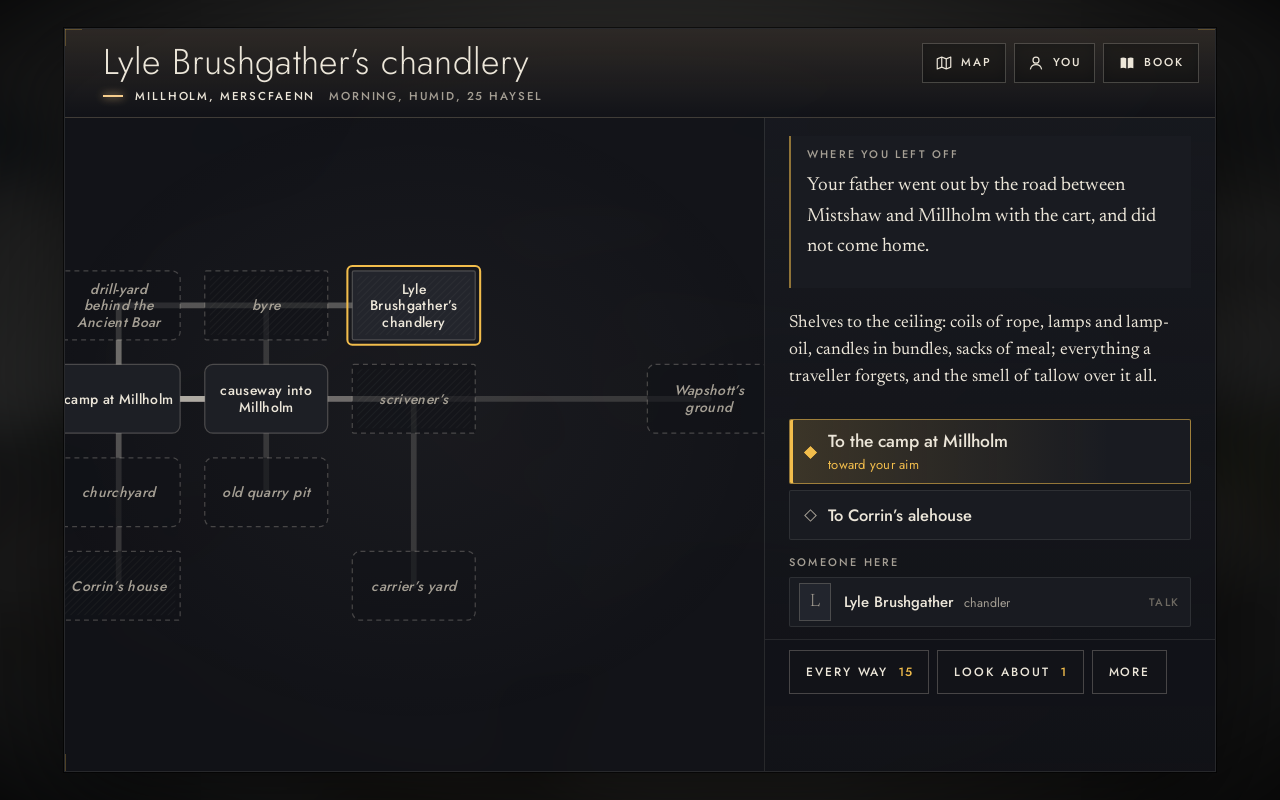
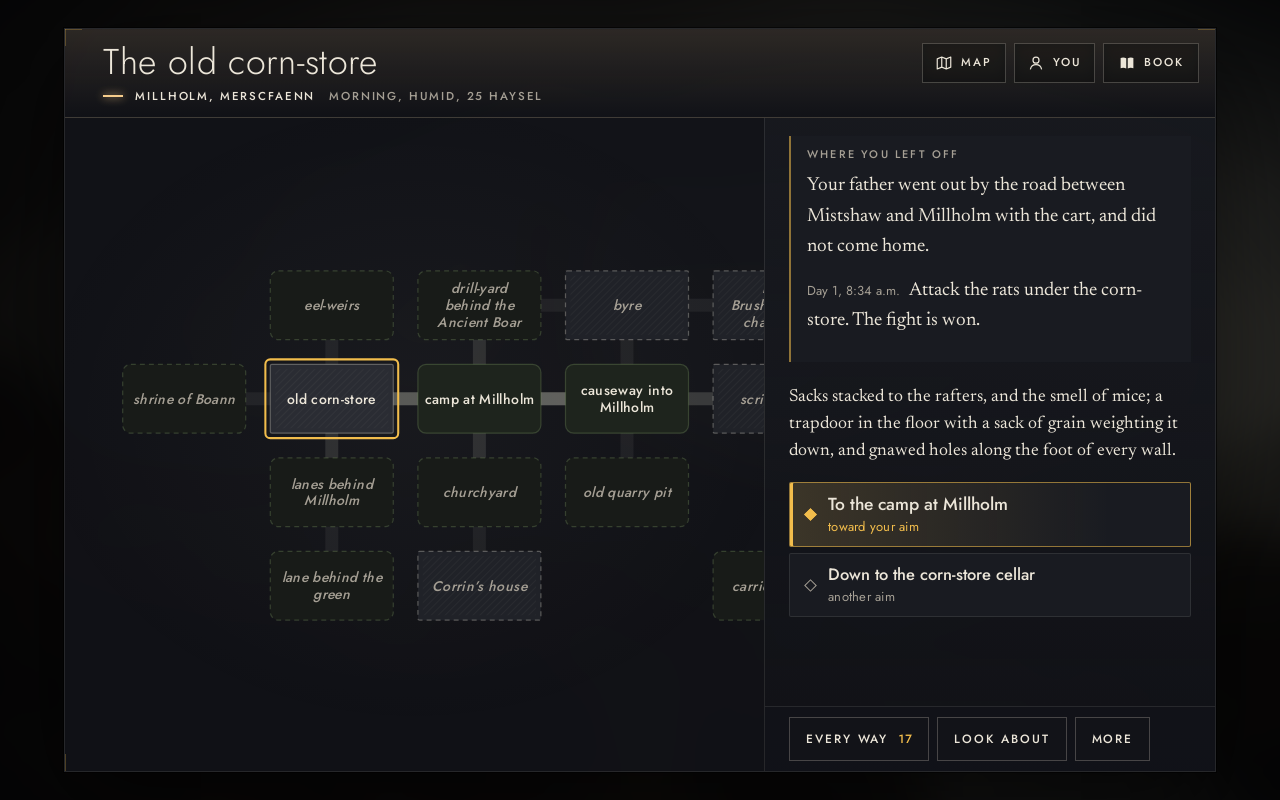
A town's plan drawn as a plan: streets under everything, open ground as ground, buildings as hatched blocks; below ground, rooms and passages

diff --git a/web/reader/world.css b/web/reader/world.css
@@ -80,3 +80,14 @@
 .overview-view .scenery { position: absolute; inset: 0; margin: 0; }
 .overview-view .scenery img { width: 100%; height: 100%; object-fit: cover; filter: saturate(.85) brightness(.85); }
 .overview-view .scenery figcaption { position: absolute; right: 10px; bottom: 6px; font-size: 10.5px; color: var(--faint); }
+/* A town's plan as a plan: its ways drawn as streets, broad and pale under everything; open ground (a green, a yard,
+   a lane) as ground, unbordered; a building as a block with a roof's hatch. Below ground and inside, rooms and the
+   passages between them, as before. */
+.plan-surface.kind-settlement .lane { stroke: rgba(236, 230, 217, .06); stroke-width: 16; }
+.plan-surface.kind-settlement .lane.walked { stroke: rgba(236, 230, 217, .11); }
+.plan-surface.kind-settlement .place.open .body { fill: #1e241d; stroke: rgba(122, 150, 96, .32); }
+.plan-surface.kind-settlement .place.open.unvisited .body { fill: #181b18; }
+.plan-surface.kind-settlement .place.in .body { fill: #2a2c33; stroke: rgba(236, 230, 217, .30); }
+.plan-surface.kind-settlement .place.in.unvisited .body { fill: #202228; }
+.plan-surface.kind-under .lane { stroke: rgba(236, 230, 217, .12); stroke-width: 9; }
+.plan-surface.kind-under .place .body { fill: #18191e; }
